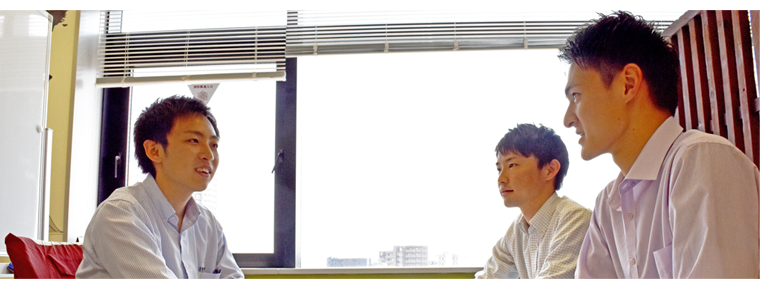
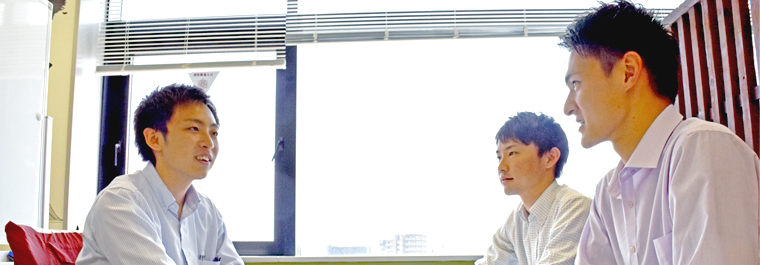
update

diff --git a/assets/css/style.css b/assets/css/style.css
@@ -17,8 +17,8 @@
 }
 @media screen and (min-width:401px) and (max-width:768px) {
 	.talk_top {
-	    background-image: url();
-	    padding-bottom: calc();
+	    background-image: url(../../index/images/talk/link/talk_top3.png);
+	    padding-bottom: calc(100%*270/670);
 	}
 	.talk_bottom {
 	    background-image: url(../../index/images/talk/link/talk_bottom3.png);
